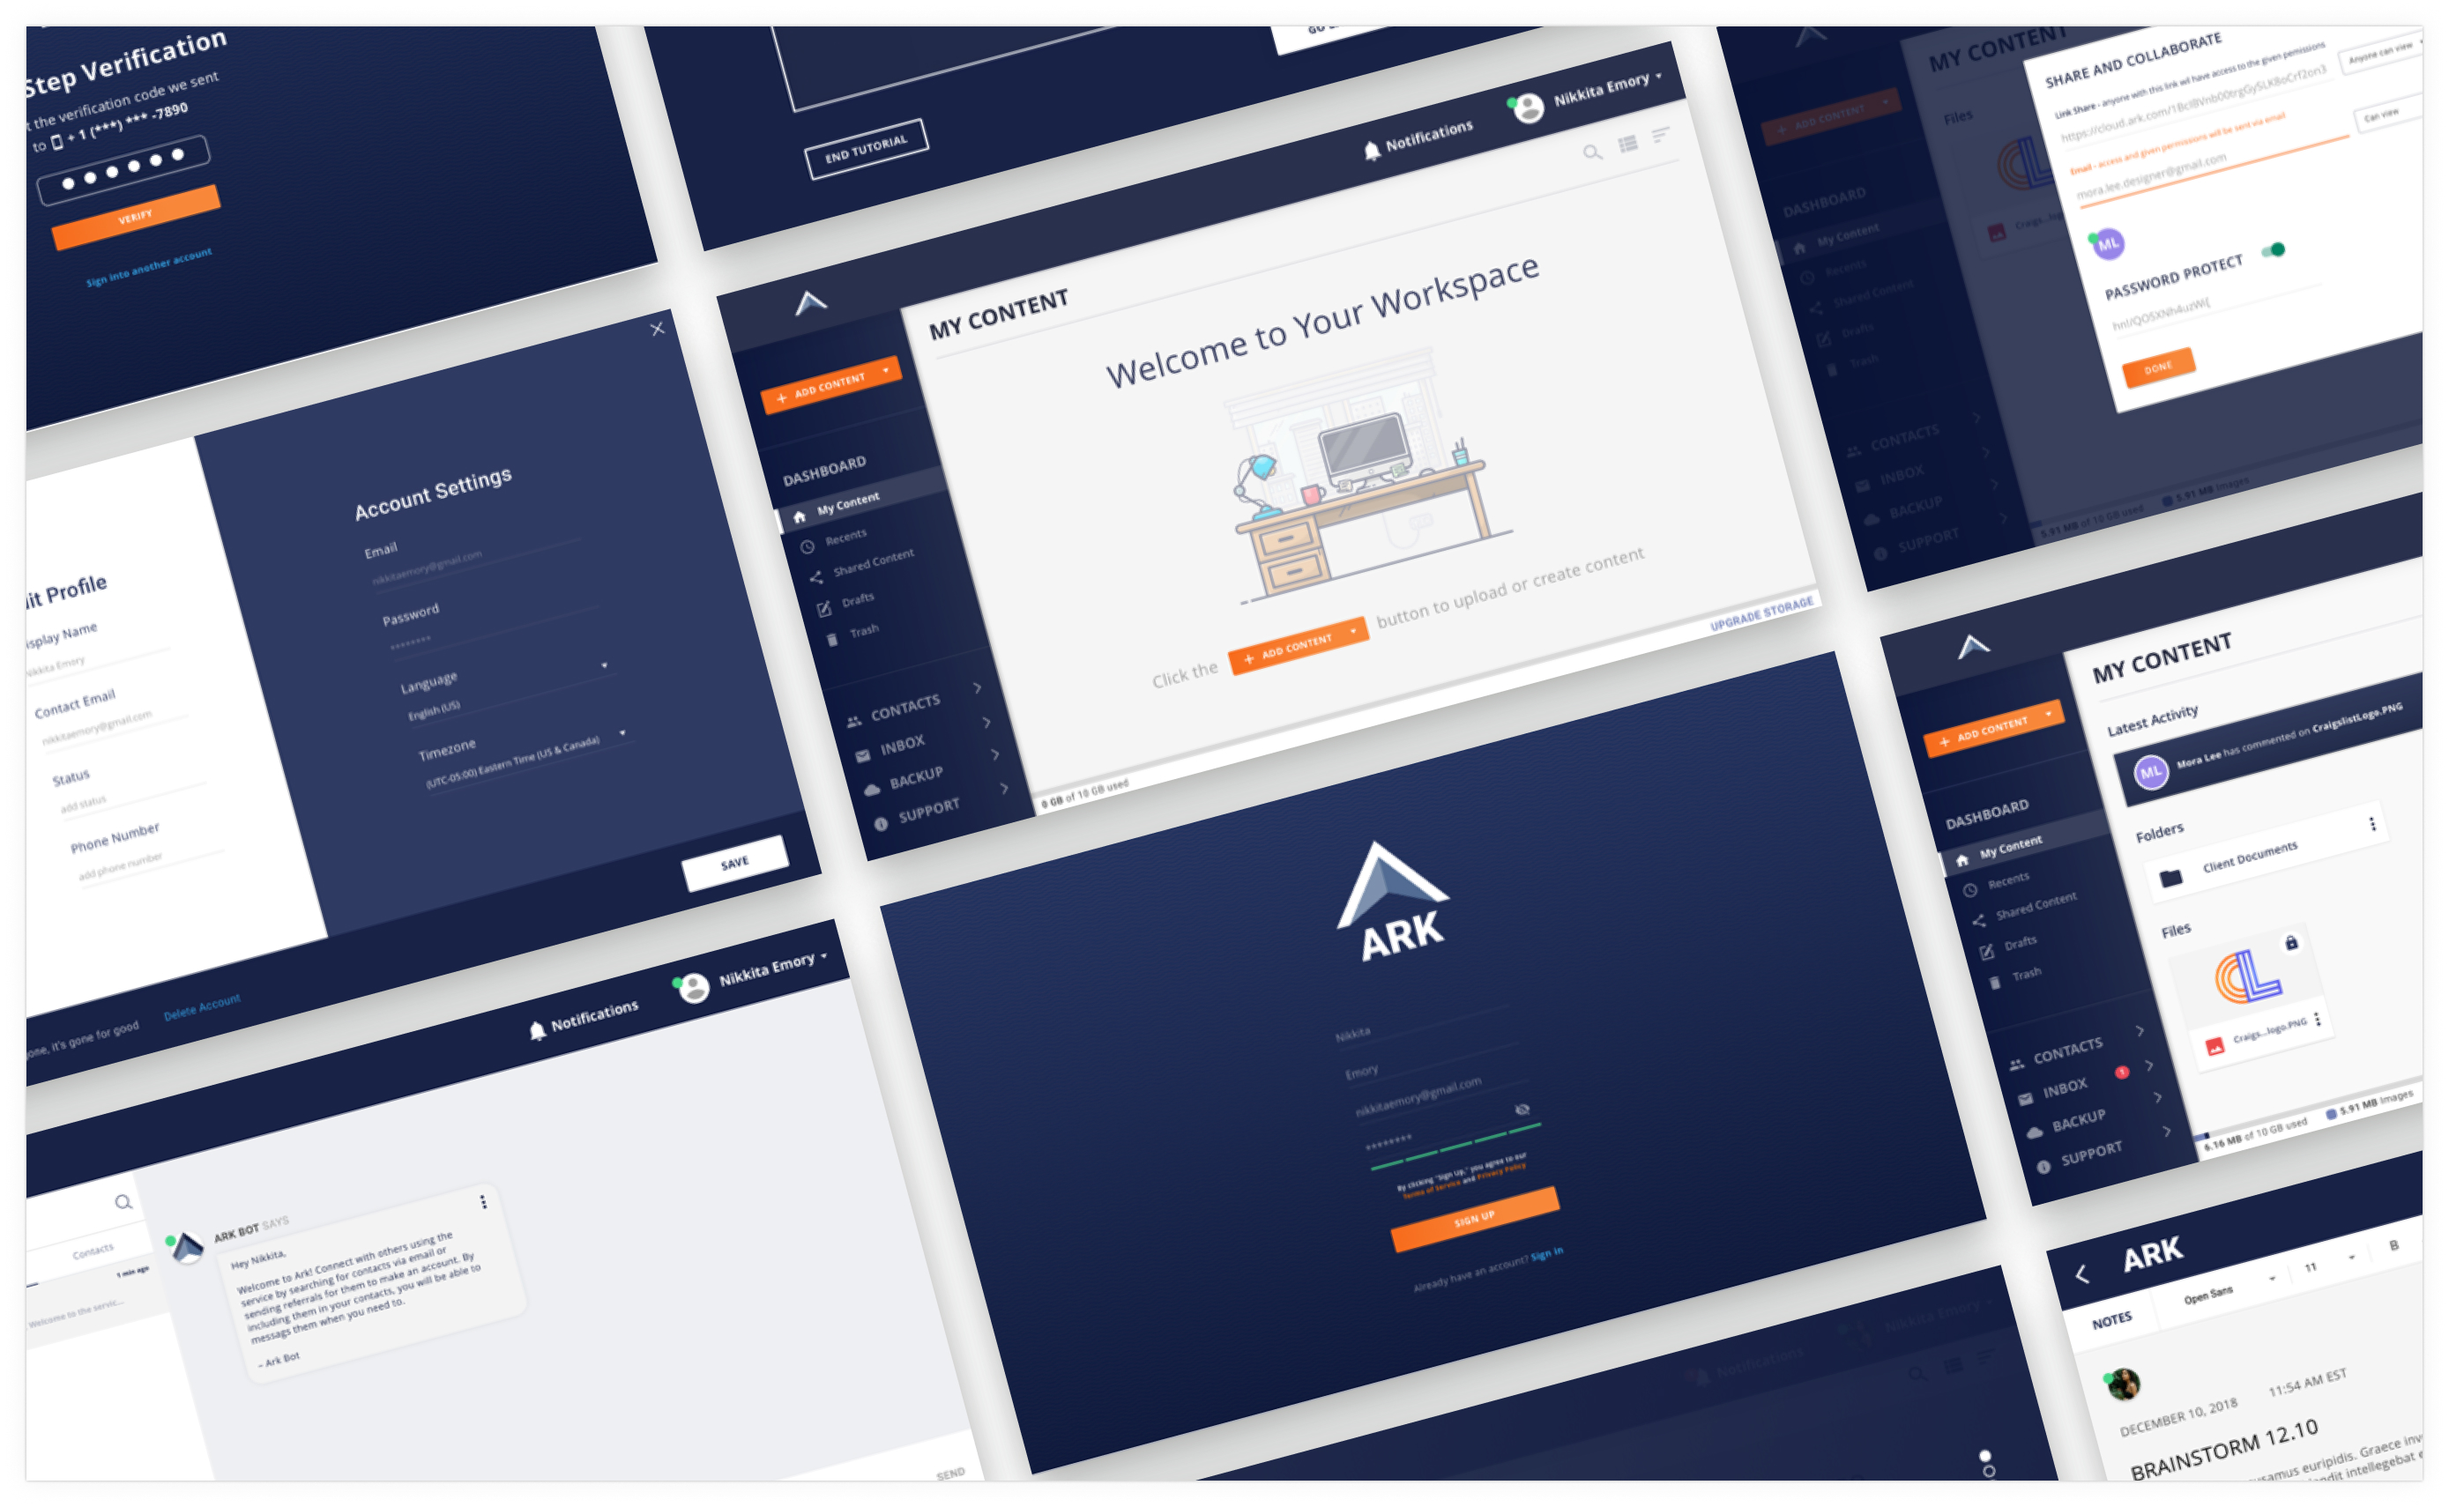
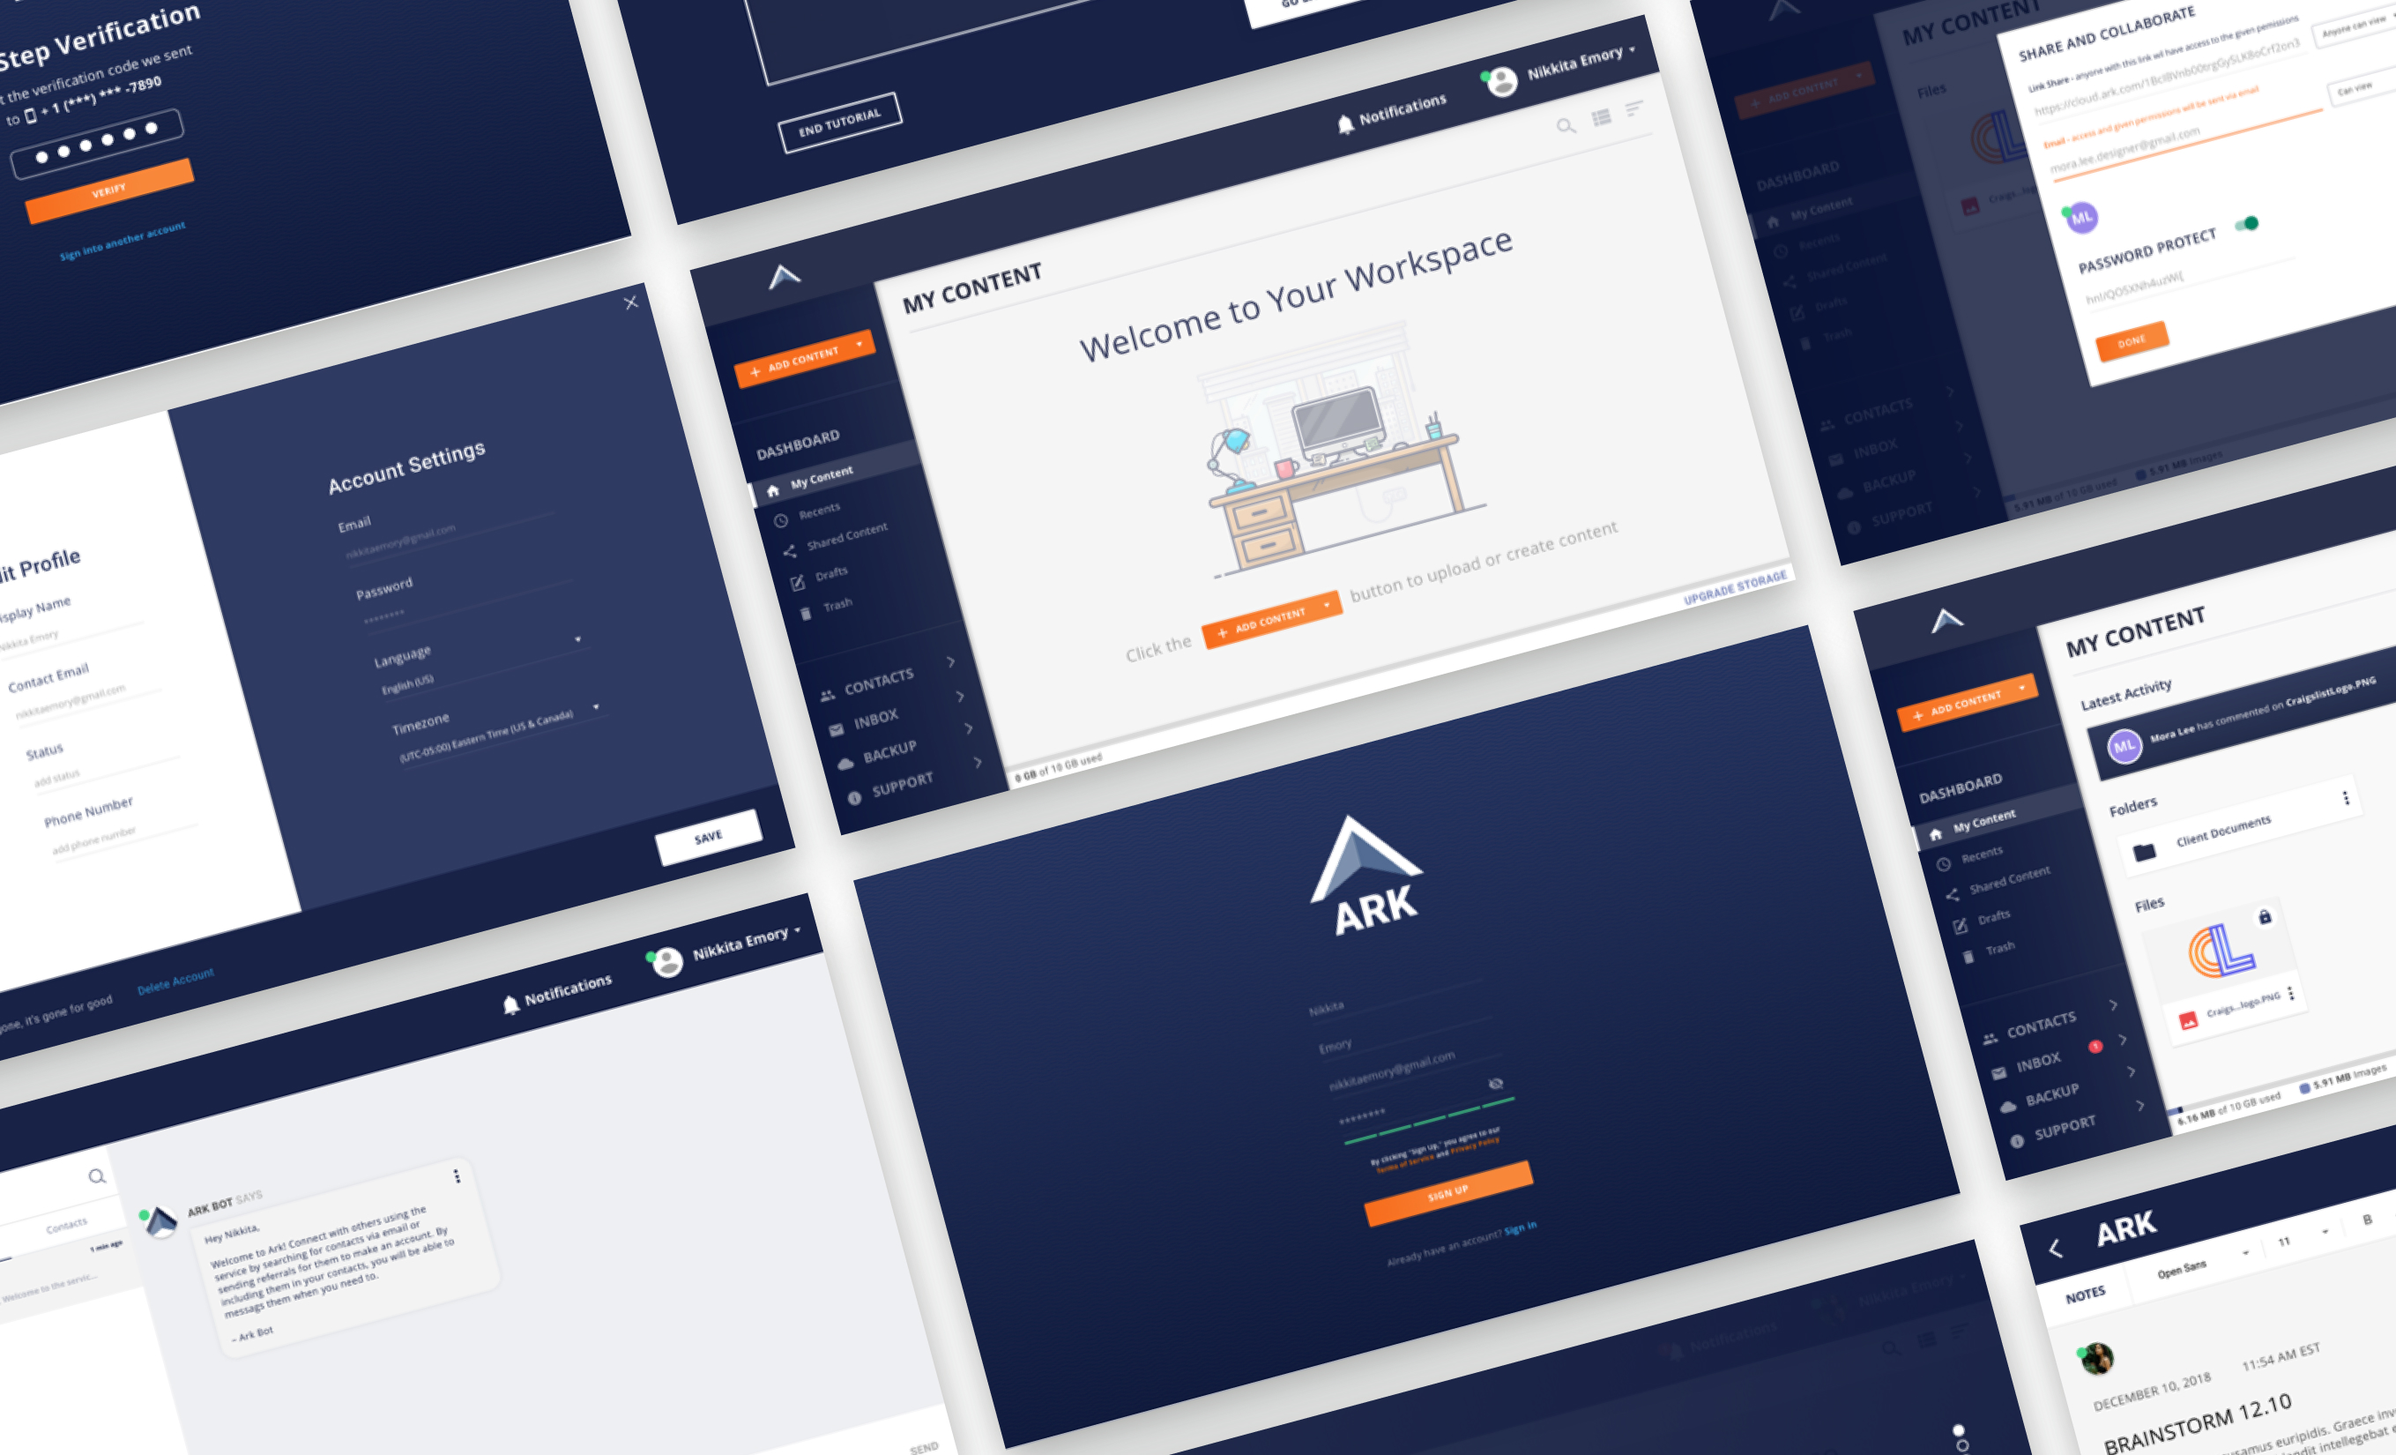
Update images

diff --git a/about.html b/about.html
@@ -183,7 +183,7 @@
           <br>
           <p>
             A possessor of curiosities, imagination, and the desire to be a champion for humanity, I remain spirited in my search for opportunities to grow and apply my learnings to impactful projects – big or small – as a student of the world.
-            If you’d like to work with someone with the previously mentioned characteristics, feel free to reach out! <a href="">I’m only a message away.</a>
+            If you’d like to work with someone with the previously mentioned characteristics, feel free to reach out! <a href="mailto:jaeux.design@gmail.com"><strong>I'm only a message away.</strong></a>
           </p>
         </div>
 
@@ -196,7 +196,8 @@
             <ul>
               <li class="list">I have an INFJ Personality.</li>
               <li class="list">I adore bees.</li>
-              <li class="list">I enjoy reading spooky stories and telling creepy tales.</li>
+              <li class="list">I'm a bit of a film geek.</li>
+              <li class="list">Creepy tales, folklore, myths and history – I enjoy reading about it all.</li>
               <li class="list">I can whistle and hum songs better than I can sing em’. </li>
             </ul>
           </div>

diff --git a/index.html b/index.html
@@ -66,7 +66,7 @@
 			<section class="projects" title="projects">
 				<article class="project1" title="project1">
 					<div class="project1-img" title="project1-img">
-						<img id="ark-preview" src="./images/hero/ark-preview.png" alt="ark preview" width="555" height="334">
+						<img id="ark-preview" src="./images/index/ark-preview.png" alt="ark preview" width="555" height="334">
 					</div>
 					<div class="project1-summary" title="project1-summary">
 						<p class="featured-project">Featured Project</p>

diff --git a/project.html b/project.html
@@ -220,6 +220,7 @@
     </section>
 
     <section title="ark-screenshots">
+      <img src="./images/ark-case-study/ark-screenshots.jpg" alt="screenshots of ark">
     </section>
 
     <!--
